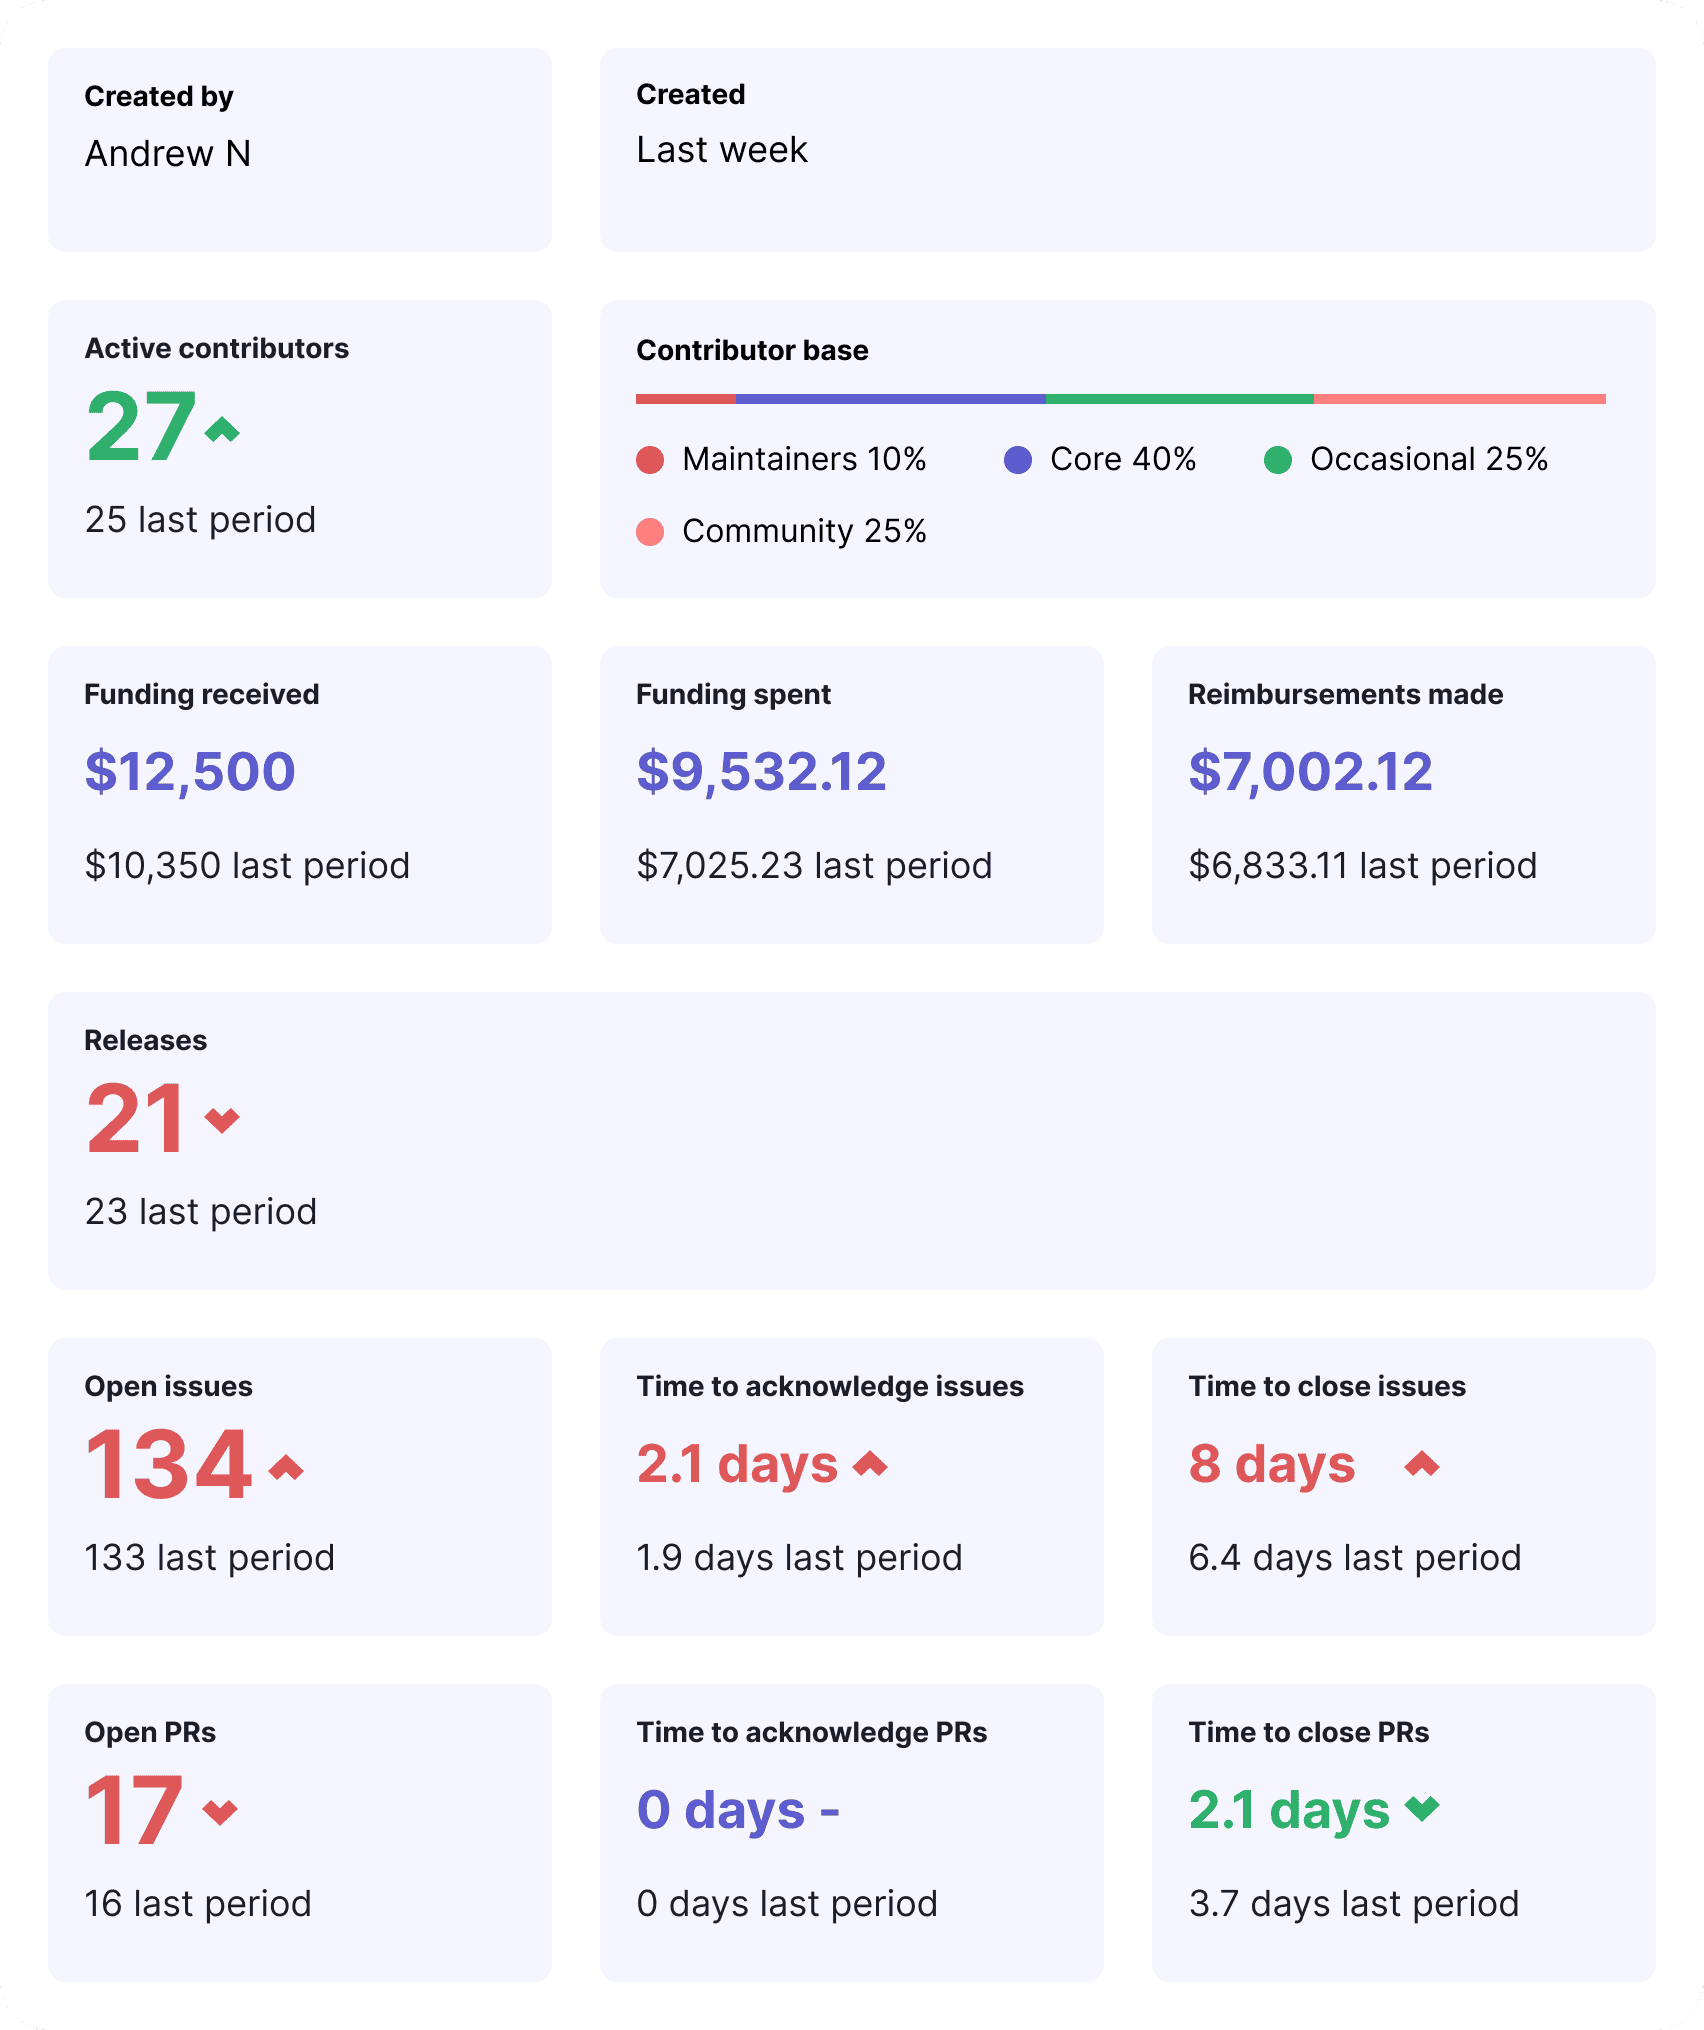
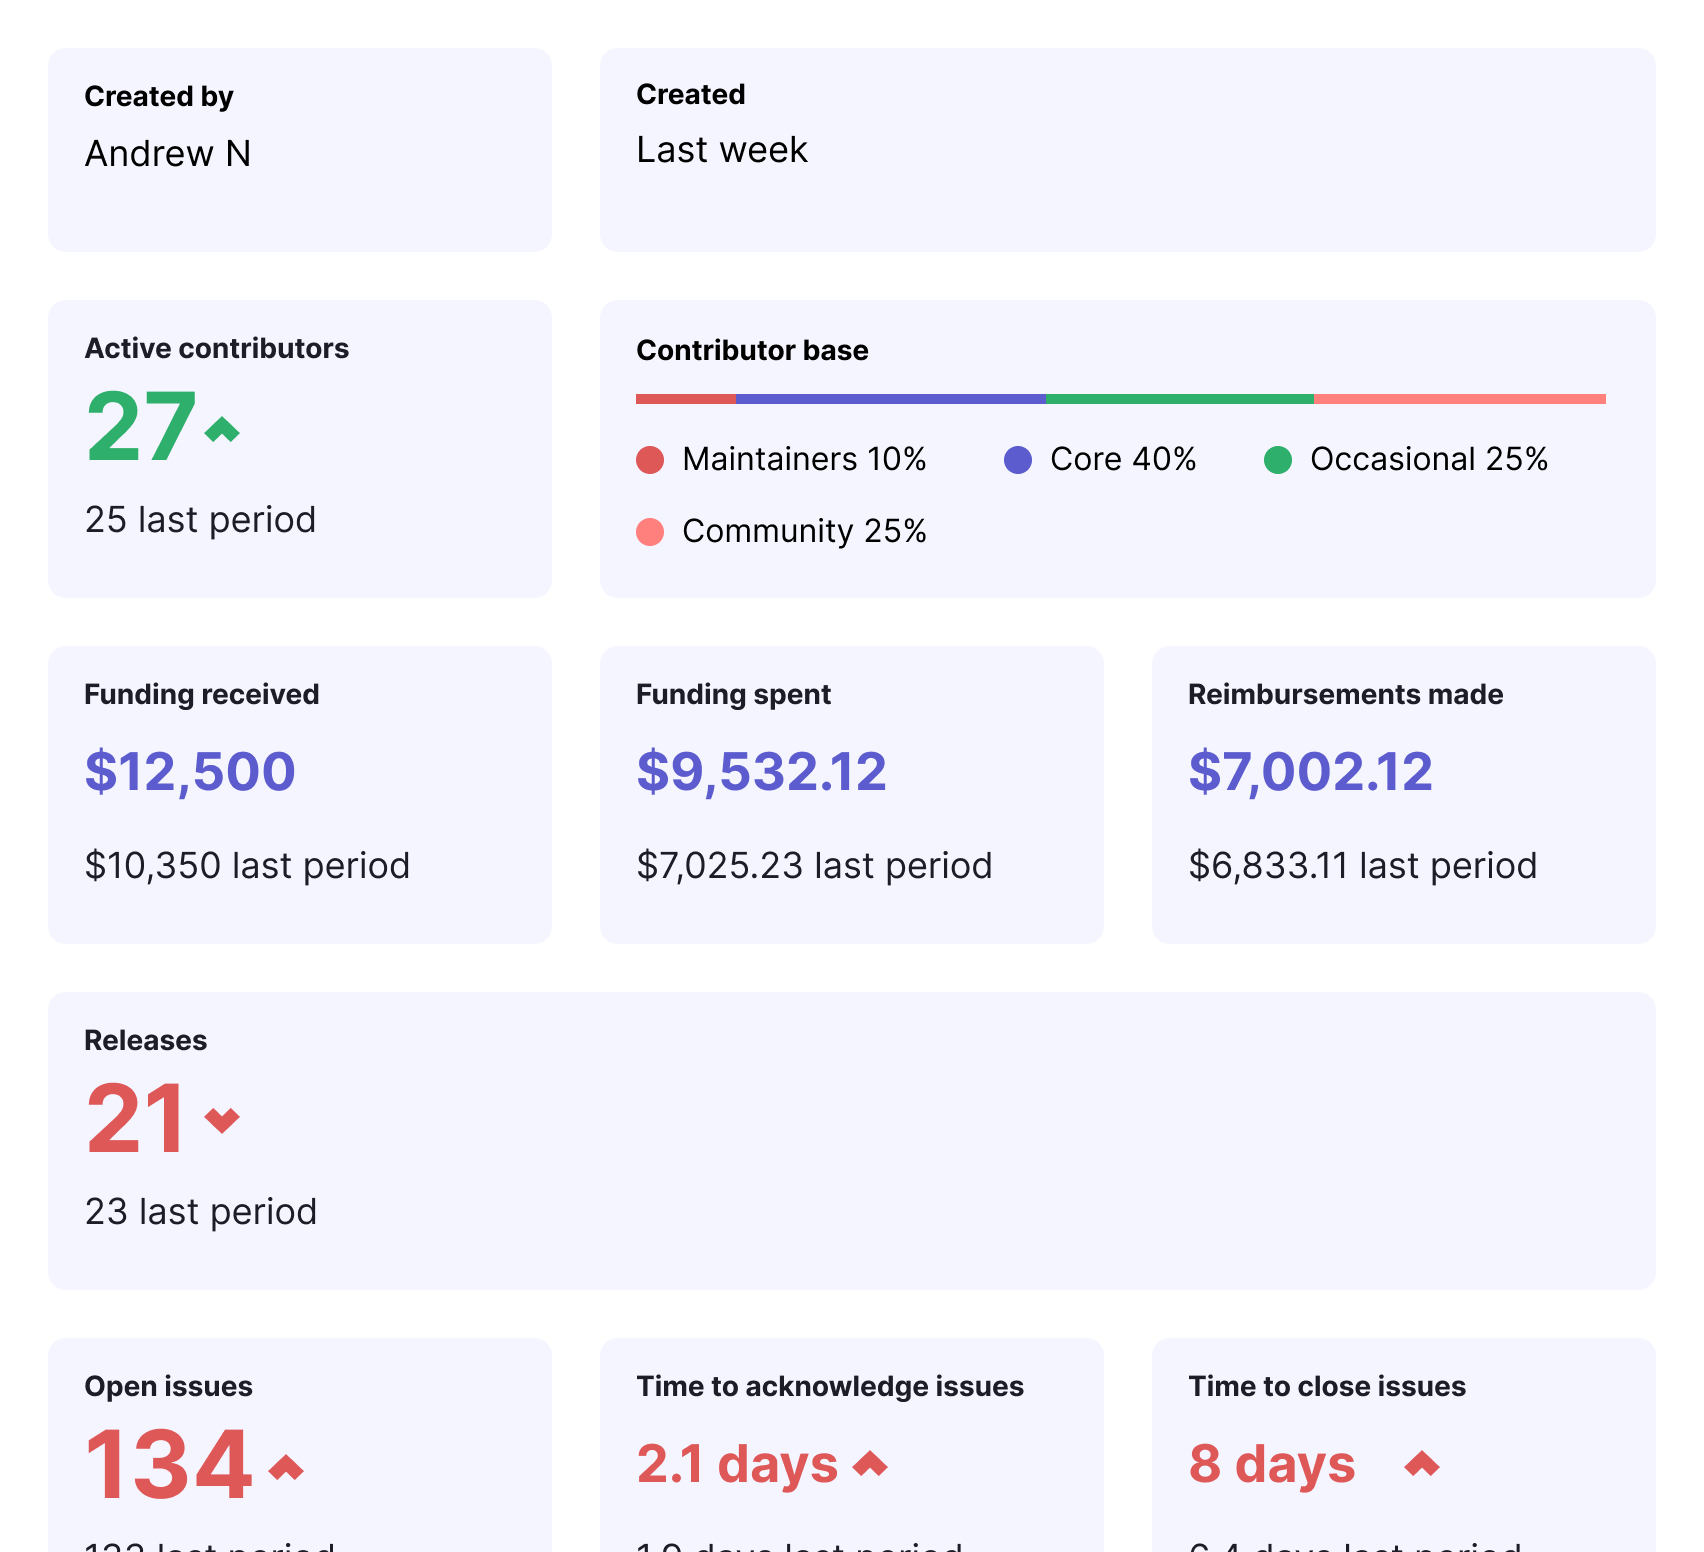
Make dashboard screenshot smaller
didn't need to be so big

diff --git a/app/assets/stylesheets/application.scss b/app/assets/stylesheets/application.scss
@@ -143,15 +143,15 @@ html {
   padding-top: 3rem;
 
   background-image: asset-url('dashboard-screen.png');
-  background-size: 426px 507.5px;
+  background-size: 426px 388px;
   background-repeat: no-repeat;
 
   background-position-x: 50%;
-  background-position-y: 160%;
+  background-position-y: 107%;
 
   @include media-breakpoint-up(md) {
-    background-size: 852px 1015px;
-    background-position-y: -110%;
+    background-size: 852px 776px;
+    background-position-y: -410%;
   }
 
   @include media-breakpoint-up(lg) {
